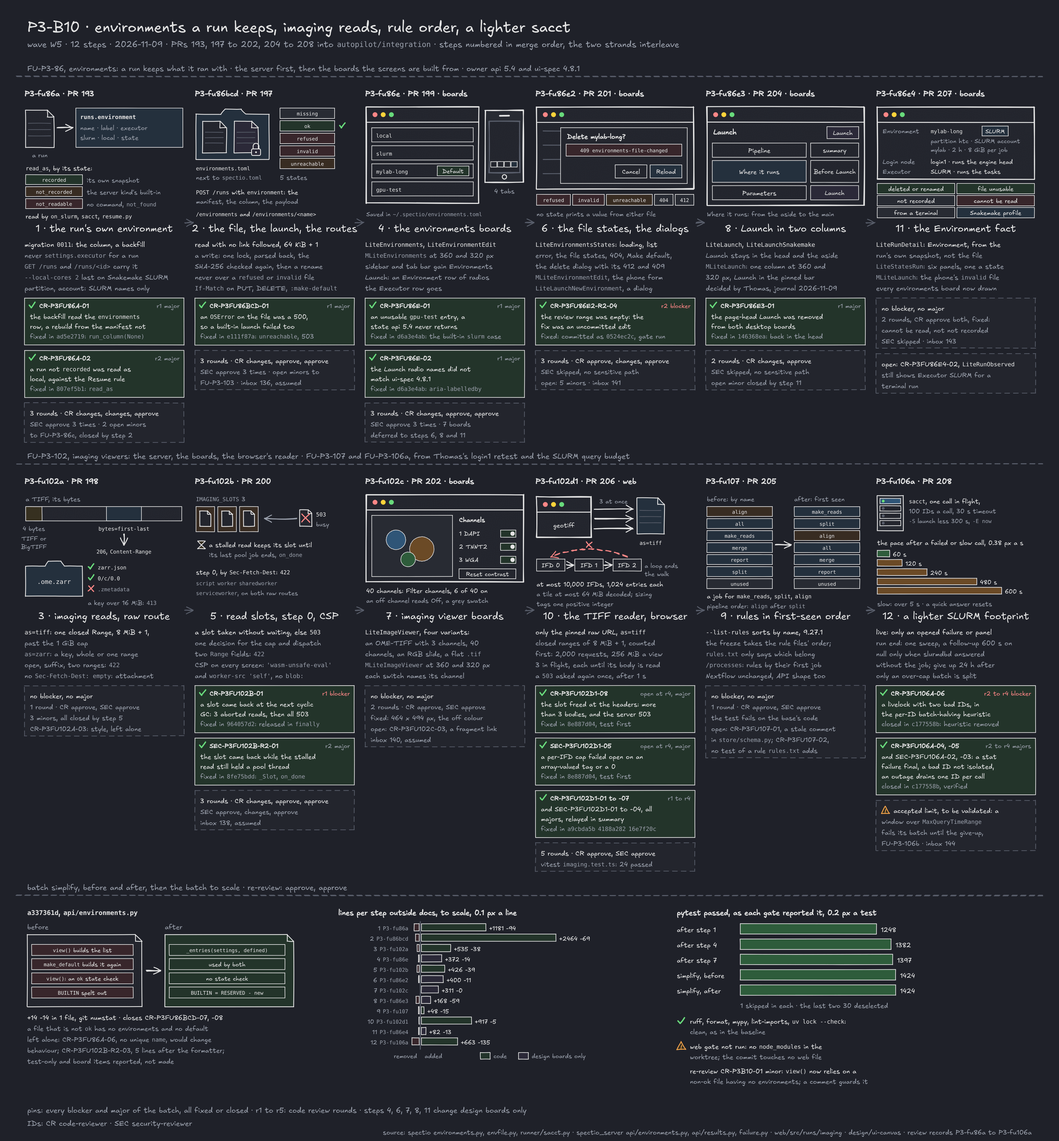
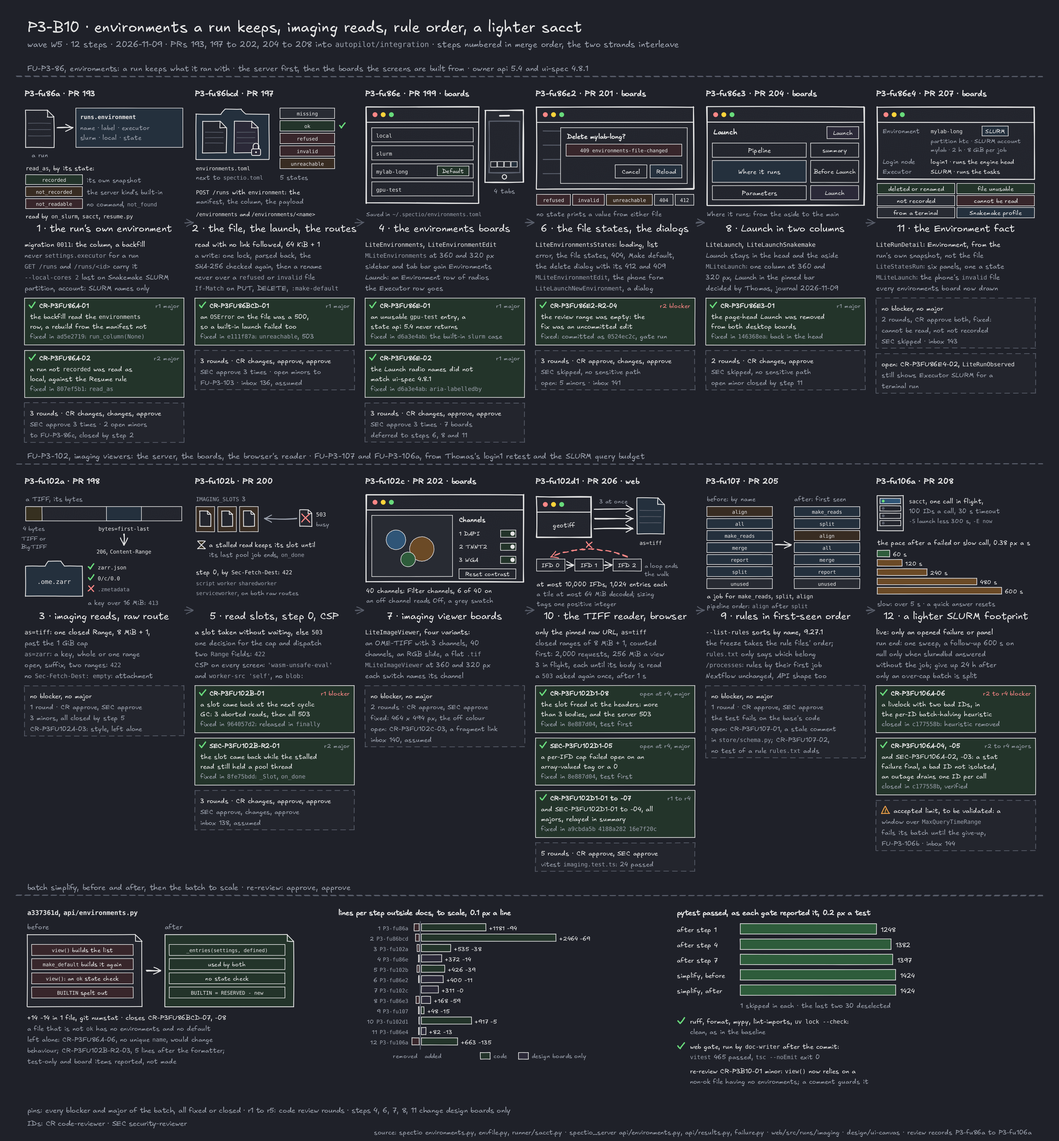
docs(P3-B10): redraw the batch figure with the web gate result, link the guide from api 5.4
The bottom panel said "web gate not run" (the simplifier's report). doc-writer ran
vitest (465 passed) and tsc (exit 0) afterwards; the figure now says so (DW-P3B10-02).
api 5.4 links to docs/usage/environments.md.

Claude-Session: https://claude.ai/code/session_01MF8RxMKxdKAc4b3Ft8NyRk

diff --git a/tools/diagrams/p3_b10_environments_imaging.py b/tools/diagrams/p3_b10_environments_imaging.py
@@ -612,10 +612,10 @@ def build(theme: Theme) -> Sketch:
     s.text(x + 24, y0 + 209, "ruff, format, mypy, lint-imports, `uv lock --check`:", size=12,
            anchor="start")
     s.text(x + 24, y0 + 228, "clean, as in the baseline", size=12, anchor="start", colour=t.dim)
-    s.warning(x + 8, y0 + 250, size=8)
-    s.text(x + 24, y0 + 255, "web gate not run: no `node_modules` in the", size=12,
+    s.tick(x + 8, y0 + 250, size=6)
+    s.text(x + 24, y0 + 255, "web gate, run by `doc-writer` after the commit:", size=12,
            anchor="start")
-    s.text(x + 24, y0 + 274, "worktree; the commit touches no web file", size=12, anchor="start",
+    s.text(x + 24, y0 + 274, "`vitest` 465 passed, `tsc --noEmit` exit 0", size=12, anchor="start",
            colour=t.dim)
     s.text(x + 24, y0 + 300, "re-review CR-P3B10-01 minor: `view()` now relies on a", size=12,
            anchor="start")

diff --git a/docs/progress/W5/P3-M9.md b/docs/progress/W5/P3-M9.md
@@ -9,8 +9,8 @@ review: null
 
 !!! info "Running since 2026-11-07 · milestone M9 ([P1 plan, M9](../../plans/P1-walking-skeleton.md#m9-dag-temp-outputs-and-efficiency)), three tasks, all merged into `autopilot/integration` (PRs #151 to #153) · batch P3-B04 docs on `autopilot/P3-B04`, see [Batch P3-B04](#batch-p3-b04) · follow-up FU-P3-53 (PR #156) and FU-P3-44 of [M2](P3-M2.md#fu-p3-44-built) (PR #157) closed by batch P3-B05 on `autopilot/P3-B05`, see [Batch P3-B05](#batch-p3-b05) · FU-P3-66 (PR #163, native Slurm) and G7 of [M5](P3-M5.md#task-g7-happy-local-checked-on-both-engines) (PR #165) closed by batch P3-B06 on `autopilot/P3-B06`, see [Batch P3-B06](#batch-p3-b06) · FU-P3-79 to 83, Thomas's login1 feedback (PRs #175 to #179), closed by batch P3-B08 on `autopilot/P3-B08`, see [Batch P3-B08](#batch-p3-b08) · FU-P3-90 (PR #182) and the file explorer and preview, FU-P3-85 (PRs #183 to #186, #188 and #189), closed by batch P3-B09 on `autopilot/P3-B09`, see [Batch P3-B09](#batch-p3-b09) · FU-P3-86a to -86e4, FU-P3-102a to -102d1, FU-P3-107 and FU-P3-106a (PRs #193, #197 to #202 and #204 to #208), closed by batch P3-B10 on `autopilot/P3-B10`, see [Batch P3-B10](#batch-p3-b10) · the page stays `running`: the `slurm-mini` checks of the three tasks wait for P1 Task 22 and the batch docs PR is not merged · status, `review-code` result and proof per task: see the [Tasks](#tasks) table and [Evidence](#evidence)"
 
-![P3-B10, twelve steps of wave W5 in two rows and a bottom band. Top row, FU-P3-86 environments: 1, P3-fu86a (PR 193), the run keeps its own environment in runs.environment (name, label, executor, slurm, local, state), read by state as recorded, not_recorded or not_readable, major CR-P3FU86A-01 and CR-P3FU86A-02 fixed; 2, P3-fu86bcd (PR 197), environments.toml read without following a link, five states (missing, ok, refused, invalid, unreachable), POST /runs with environment, the routes with If-Match, major CR-P3FU86BCD-01 (an OSError was a 500) fixed; 4, P3-fu86e (PR 199), the environments boards, majors CR-P3FU86E-01 and -02 fixed; 6, P3-fu86e2 (PR 201), the file states and dialogs, blocker CR-P3FU86E2-R2-04 (the fix was not committed) fixed; 8, P3-fu86e3 (PR 204), Launch in two columns, major CR-P3FU86E3-01 fixed; 11, P3-fu86e4 (PR 207), the Environment fact on Run detail and six states, open minor CR-P3FU86E4-02. Bottom row: 3, P3-fu102a (PR 198), imaging reads as=tiff by one closed Range of 8 MiB + 1 and as=zarr by key, .zmetadata refused, 413 over 16 MiB; 5, P3-fu102b (PR 200), three imaging read slots, step 0 refusing script and worker destinations, the CSP with wasm-unsafe-eval, blocker CR-P3FU102B-01 and major SEC-P3FU102B-R2-01 fixed; 7, P3-fu102c (PR 202), the imaging viewer boards; 10, P3-fu102d1 (PR 206), the TIFF reader in the browser with caps (3 in flight, 10,000 IFDs), majors CR-P3FU102D1-08 and SEC-P3FU102D1-05 fixed test first, 5 rounds; 9, P3-fu107 (PR 205), Snakemake rules in first-seen order, align after split, open CR-P3FU107-01 and -02; 12, P3-fu106a (PR 208), a lighter sacct footprint with back-off from 60 to 600 s, blocker CR-P3FU106A-06 and majors fixed by removing the batch-halving heuristic, accepted limit FU-P3-106b. Bottom band: the simplifier's commit a337361d, one _entries helper and BUILTIN = RESERVED - new, +14 -14 in api/environments.py; lines per step to scale; pytest passed 1248, 1382, 1397, 1424 before and 1424 after; the re-review approves twice with CR-P3B10-01 open. The figure's line 'web gate not run' dates from the simplifier's report: doc-writer ran it afterwards, 465 vitest tests passed and tsc was clean.](../../assets/diagrams/p3-b10-environments-imaging_light.png#only-light)
-![P3-B10, twelve steps of wave W5 in two rows and a bottom band. Top row, FU-P3-86 environments: 1, P3-fu86a (PR 193), the run keeps its own environment in runs.environment (name, label, executor, slurm, local, state), read by state as recorded, not_recorded or not_readable, major CR-P3FU86A-01 and CR-P3FU86A-02 fixed; 2, P3-fu86bcd (PR 197), environments.toml read without following a link, five states (missing, ok, refused, invalid, unreachable), POST /runs with environment, the routes with If-Match, major CR-P3FU86BCD-01 (an OSError was a 500) fixed; 4, P3-fu86e (PR 199), the environments boards, majors CR-P3FU86E-01 and -02 fixed; 6, P3-fu86e2 (PR 201), the file states and dialogs, blocker CR-P3FU86E2-R2-04 (the fix was not committed) fixed; 8, P3-fu86e3 (PR 204), Launch in two columns, major CR-P3FU86E3-01 fixed; 11, P3-fu86e4 (PR 207), the Environment fact on Run detail and six states, open minor CR-P3FU86E4-02. Bottom row: 3, P3-fu102a (PR 198), imaging reads as=tiff by one closed Range of 8 MiB + 1 and as=zarr by key, .zmetadata refused, 413 over 16 MiB; 5, P3-fu102b (PR 200), three imaging read slots, step 0 refusing script and worker destinations, the CSP with wasm-unsafe-eval, blocker CR-P3FU102B-01 and major SEC-P3FU102B-R2-01 fixed; 7, P3-fu102c (PR 202), the imaging viewer boards; 10, P3-fu102d1 (PR 206), the TIFF reader in the browser with caps (3 in flight, 10,000 IFDs), majors CR-P3FU102D1-08 and SEC-P3FU102D1-05 fixed test first, 5 rounds; 9, P3-fu107 (PR 205), Snakemake rules in first-seen order, align after split, open CR-P3FU107-01 and -02; 12, P3-fu106a (PR 208), a lighter sacct footprint with back-off from 60 to 600 s, blocker CR-P3FU106A-06 and majors fixed by removing the batch-halving heuristic, accepted limit FU-P3-106b. Bottom band: the simplifier's commit a337361d, one _entries helper and BUILTIN = RESERVED - new, +14 -14 in api/environments.py; lines per step to scale; pytest passed 1248, 1382, 1397, 1424 before and 1424 after; the re-review approves twice with CR-P3B10-01 open. The figure's line 'web gate not run' dates from the simplifier's report: doc-writer ran it afterwards, 465 vitest tests passed and tsc was clean.](../../assets/diagrams/p3-b10-environments-imaging_dark.png#only-dark)
+![P3-B10, twelve steps of wave W5 in two rows and a bottom band. Top row, FU-P3-86 environments: 1, P3-fu86a (PR 193), the run keeps its own environment in runs.environment (name, label, executor, slurm, local, state), read by state as recorded, not_recorded or not_readable, major CR-P3FU86A-01 and CR-P3FU86A-02 fixed; 2, P3-fu86bcd (PR 197), environments.toml read without following a link, five states (missing, ok, refused, invalid, unreachable), POST /runs with environment, the routes with If-Match, major CR-P3FU86BCD-01 (an OSError was a 500) fixed; 4, P3-fu86e (PR 199), the environments boards, majors CR-P3FU86E-01 and -02 fixed; 6, P3-fu86e2 (PR 201), the file states and dialogs, blocker CR-P3FU86E2-R2-04 (the fix was not committed) fixed; 8, P3-fu86e3 (PR 204), Launch in two columns, major CR-P3FU86E3-01 fixed; 11, P3-fu86e4 (PR 207), the Environment fact on Run detail and six states, open minor CR-P3FU86E4-02. Bottom row: 3, P3-fu102a (PR 198), imaging reads as=tiff by one closed Range of 8 MiB + 1 and as=zarr by key, .zmetadata refused, 413 over 16 MiB; 5, P3-fu102b (PR 200), three imaging read slots, step 0 refusing script and worker destinations, the CSP with wasm-unsafe-eval, blocker CR-P3FU102B-01 and major SEC-P3FU102B-R2-01 fixed; 7, P3-fu102c (PR 202), the imaging viewer boards; 10, P3-fu102d1 (PR 206), the TIFF reader in the browser with caps (3 in flight, 10,000 IFDs), majors CR-P3FU102D1-08 and SEC-P3FU102D1-05 fixed test first, 5 rounds; 9, P3-fu107 (PR 205), Snakemake rules in first-seen order, align after split, open CR-P3FU107-01 and -02; 12, P3-fu106a (PR 208), a lighter sacct footprint with back-off from 60 to 600 s, blocker CR-P3FU106A-06 and majors fixed by removing the batch-halving heuristic, accepted limit FU-P3-106b. Bottom band: the simplifier's commit a337361d, one _entries helper and BUILTIN = RESERVED - new, +14 -14 in api/environments.py; lines per step to scale; pytest passed 1248, 1382, 1397, 1424 before and 1424 after; the re-review approves twice with CR-P3B10-01 open. Web gate, run by doc-writer after the commit: vitest 465 passed, tsc exit 0.](../../assets/diagrams/p3-b10-environments-imaging_light.png#only-light)
+![P3-B10, twelve steps of wave W5 in two rows and a bottom band. Top row, FU-P3-86 environments: 1, P3-fu86a (PR 193), the run keeps its own environment in runs.environment (name, label, executor, slurm, local, state), read by state as recorded, not_recorded or not_readable, major CR-P3FU86A-01 and CR-P3FU86A-02 fixed; 2, P3-fu86bcd (PR 197), environments.toml read without following a link, five states (missing, ok, refused, invalid, unreachable), POST /runs with environment, the routes with If-Match, major CR-P3FU86BCD-01 (an OSError was a 500) fixed; 4, P3-fu86e (PR 199), the environments boards, majors CR-P3FU86E-01 and -02 fixed; 6, P3-fu86e2 (PR 201), the file states and dialogs, blocker CR-P3FU86E2-R2-04 (the fix was not committed) fixed; 8, P3-fu86e3 (PR 204), Launch in two columns, major CR-P3FU86E3-01 fixed; 11, P3-fu86e4 (PR 207), the Environment fact on Run detail and six states, open minor CR-P3FU86E4-02. Bottom row: 3, P3-fu102a (PR 198), imaging reads as=tiff by one closed Range of 8 MiB + 1 and as=zarr by key, .zmetadata refused, 413 over 16 MiB; 5, P3-fu102b (PR 200), three imaging read slots, step 0 refusing script and worker destinations, the CSP with wasm-unsafe-eval, blocker CR-P3FU102B-01 and major SEC-P3FU102B-R2-01 fixed; 7, P3-fu102c (PR 202), the imaging viewer boards; 10, P3-fu102d1 (PR 206), the TIFF reader in the browser with caps (3 in flight, 10,000 IFDs), majors CR-P3FU102D1-08 and SEC-P3FU102D1-05 fixed test first, 5 rounds; 9, P3-fu107 (PR 205), Snakemake rules in first-seen order, align after split, open CR-P3FU107-01 and -02; 12, P3-fu106a (PR 208), a lighter sacct footprint with back-off from 60 to 600 s, blocker CR-P3FU106A-06 and majors fixed by removing the batch-halving heuristic, accepted limit FU-P3-106b. Bottom band: the simplifier's commit a337361d, one _entries helper and BUILTIN = RESERVED - new, +14 -14 in api/environments.py; lines per step to scale; pytest passed 1248, 1382, 1397, 1424 before and 1424 after; the re-review approves twice with CR-P3B10-01 open. Web gate, run by doc-writer after the commit: vitest 465 passed, tsc exit 0.](../../assets/diagrams/p3-b10-environments-imaging_dark.png#only-dark)
 
 ![P3-B09, browse and preview a run's files, and a rule in no rule graph. Six columns in build order, one per step of FU-P3-85, then the pipeline order fix, the batch simplifier and the tests. 1, P3-fu85-spec (PR 183): the design first, in ui-spec 4.4.1, api 5.3 and dev-env 15.3 requirement 14, with boards before screens; a self-review R0 that was not independent, then the independent R1 (security 0 blockers, 2 majors, 9 minors; UX 0, 5, 15), all applied; no code-reviewer and no tests. 2, P3-fu85a (PR 184): a stat route and a text route on the results directory, one reader for the Job files and the results, a Range that never cuts a UTF-8 character, Cross-Origin-Resource-Policy same-origin on the file routes; approve twice, open minors CR-P3FU85A-01 and SEC-P3FU85A-01 to -03. 3, P3-fu85b (PR 185): image mode of the raw route, inline only for Sec-Fetch-Dest image, with the signature, 20 MiB and 50 megapixel caps, one opening that records the size, inode and first chunk, and an abort when the file is replaced; approve twice, open CR-P3FU85B-01 and SEC-P3FU85B-01 to -03. 4, P3-fu85c (PR 186): the file preview page, one viewer by kind, whole up to 64 KiB, else Start or End with Load more, caps of 1 MiB, 20,000 lines, 500 rows and 50 columns, a Playwright test of a hostile SVG; four rounds, the majors CR-P3FU85C-01, -02, -03, R3-06 and R3-07, SEC-P3FU85C-01 and others fixed; Firefox and WebKit not run. 5, P3-fu85d (PR 188): the results explorer with sort buttons carrying aria-sort, a filter, Kind badges and a Download button per file, the view kept in the URL, and a way back to the task sheet; two rounds, approve twice; the Playwright smoke on the explorer not done. 6, P3-fu85e (PR 189): the work directory of a Nextflow attempt, the same routes on a second root, dot names refused, links followed only into a task of the same run, Browse work directory on the task sheet; two rounds, approve twice; a real work directory on a cluster not seen. Bottom band: P3-fu90 (PR 182), the rules in no rule graph now come after the rules in a graph, align between split and merge after a second graph; the batch simplifier, two commits, seven files, minus 61 and plus 54, one copy each of the entries body, the stat body, the content security policy string, join and the 503 words; the re-review approves twice with CR-P3B09-01, -02 and SEC-P3B09-01 open; tests to scale, pytest 1189 passed before and after, vitest 432 passed after.](../../assets/diagrams/p3-b09-file-explorer_light.png#only-light)
 ![P3-B09, browse and preview a run's files, and a rule in no rule graph. Six columns in build order, one per step of FU-P3-85, then the pipeline order fix, the batch simplifier and the tests. 1, P3-fu85-spec (PR 183): the design first, in ui-spec 4.4.1, api 5.3 and dev-env 15.3 requirement 14, with boards before screens; a self-review R0 that was not independent, then the independent R1 (security 0 blockers, 2 majors, 9 minors; UX 0, 5, 15), all applied; no code-reviewer and no tests. 2, P3-fu85a (PR 184): a stat route and a text route on the results directory, one reader for the Job files and the results, a Range that never cuts a UTF-8 character, Cross-Origin-Resource-Policy same-origin on the file routes; approve twice, open minors CR-P3FU85A-01 and SEC-P3FU85A-01 to -03. 3, P3-fu85b (PR 185): image mode of the raw route, inline only for Sec-Fetch-Dest image, with the signature, 20 MiB and 50 megapixel caps, one opening that records the size, inode and first chunk, and an abort when the file is replaced; approve twice, open CR-P3FU85B-01 and SEC-P3FU85B-01 to -03. 4, P3-fu85c (PR 186): the file preview page, one viewer by kind, whole up to 64 KiB, else Start or End with Load more, caps of 1 MiB, 20,000 lines, 500 rows and 50 columns, a Playwright test of a hostile SVG; four rounds, the majors CR-P3FU85C-01, -02, -03, R3-06 and R3-07, SEC-P3FU85C-01 and others fixed; Firefox and WebKit not run. 5, P3-fu85d (PR 188): the results explorer with sort buttons carrying aria-sort, a filter, Kind badges and a Download button per file, the view kept in the URL, and a way back to the task sheet; two rounds, approve twice; the Playwright smoke on the explorer not done. 6, P3-fu85e (PR 189): the work directory of a Nextflow attempt, the same routes on a second root, dot names refused, links followed only into a task of the same run, Browse work directory on the task sheet; two rounds, approve twice; a real work directory on a cluster not seen. Bottom band: P3-fu90 (PR 182), the rules in no rule graph now come after the rules in a graph, align between split and merge after a second graph; the batch simplifier, two commits, seven files, minus 61 and plus 54, one copy each of the entries body, the stat body, the content security policy string, join and the 503 words; the re-review approves twice with CR-P3B09-01, -02 and SEC-P3B09-01 open; tests to scale, pytest 1189 passed before and after, vitest 432 passed after.](../../assets/diagrams/p3-b09-file-explorer_dark.png#only-dark)
@@ -798,7 +798,7 @@ Branch `autopilot/P3-B10`, on `a337361d`, the simplifier's commit on top of `d21
 
 - **Simplifier:** one commit, `a337361d`, 1 file, +14 −14 (the worker reported −11/+13): `api/environments.py` builds the built-ins and the file's environments in one `_entries` helper, used by `view()` and `make_default()`, and `BUILTIN` is `RESERVED - {"new"}`. It closes CR-P3FU86BCD-07 and -08 ([record](../../reviews/code/P3-B10.md#simplification)). Six simplify findings were looked at and left alone, with the reasons in the record.
 - **Re-review:** over the 28 lines of the diff, so both reviewers read it ([autopilot §11](../../playbooks/autopilot.md#11-batches-of-p3-tasks-thomas-2026-11-04)): `code-reviewer` approve (1 minor, CR-P3B10-01: `view()` now relies on a file that is not `ok` having no environments and no default, which holds today), `security-reviewer` approve (no finding). Nothing was changed after it; the minor is open and optional.
-- **Figure:** `p3-b10-environments-imaging`, light and dark, drawn by `diagram-artist`, at the top of this page. Its bottom panel says the web gate was not run; that is the simplifier's report, and `doc-writer` ran it afterwards ([evidence](#batch-p3-b10-evidence), [DW-P3B10-02](../../reviews/code/P3-B10.md#findings)).
+- **Figure:** `p3-b10-environments-imaging`, light and dark, drawn by `diagram-artist`, at the top of this page. Its bottom panel carries the web gate as `doc-writer` ran it after the simplifier's report: `vitest` 465 passed, `tsc --noEmit` exit 0 ([evidence](#batch-p3-b10-evidence), [DW-P3B10-02](../../reviews/code/P3-B10.md#findings), fixed by redrawing).
 - **Guide:** a new page, [Environments](../../usage/environments.md), in the Usage nav, written from a real server (below). The imaging reads have no guide: no screen uses them yet and [api §5.3.1](../../specs/api-and-data-model.md#531-imaging-viewers-fu-p3-102) owns them.
 - **No screenshot and no cast:** the batch builds no screen. The boards are design files, not the product, so they are not shown as screenshots. The one CLI line the batch adds, `spectio doctor`'s `environments` line, is shown as text in the guide.
 - **Found by `doc-writer`, new:** `POST /runs:validate` does not exist in 0.0.1, although the step text and the api §5.4 table name it ([DW-P3B10-01](../../reviews/code/P3-B10.md#findings)).
@@ -1346,7 +1346,7 @@ GET ...?as=tiff  Range, no Sec-Fetch-Dest ->  200 content-disposition: attachmen
 
 **Batch P3-B10**
 
-- **`p3-b10-environments-imaging` sketch,** light and dark, at the top of this page. Drawn by `diagram-artist` with `python3 tools/diagrams/p3_b10_environments_imaging.py` (entry `p3-b10-environments-imaging` in `docs/assets/media.yaml`), from the code at `a337361d`. Two rows in merge order: the six environments steps (the run's column and its three states, the file and its five states, then the four boards) and the six others (the raw route's TIFF and Zarr reads, the three read slots, the viewer boards, the browser's reader, the rule order, the `sacct` back-off). Each blocker and major is pinned by its ID, fixed ones green, the open ones dashed. The bottom band has the simplifier before and after, the lines of each step to scale and the pytest counts. `doc-writer` looked at the light PNG: one line is out of date, "web gate not run" ([DW-P3B10-02](../../reviews/code/P3-B10.md#findings)). `doc-reviewer` has not read the page yet.
+- **`p3-b10-environments-imaging` sketch,** light and dark, at the top of this page. Drawn by `diagram-artist` with `python3 tools/diagrams/p3_b10_environments_imaging.py` (entry `p3-b10-environments-imaging` in `docs/assets/media.yaml`), from the code at `a337361d`. Two rows in merge order: the six environments steps (the run's column and its three states, the file and its five states, then the four boards) and the six others (the raw route's TIFF and Zarr reads, the three read slots, the viewer boards, the browser's reader, the rule order, the `sacct` back-off). Each blocker and major is pinned by its ID, fixed ones green, the open ones dashed. The bottom band has the simplifier before and after, the lines of each step to scale and the pytest counts. The first drawing said "web gate not run", the simplifier's report; it was redrawn with the web gate result (465 `vitest` tests passed, `tsc` exit 0) and `doc-writer` looked at the new light PNG ([DW-P3B10-02](../../reviews/code/P3-B10.md#findings)). `doc-reviewer` has not read the page yet.
 - **Guide:** [Environments](../../usage/environments.md), new, in the Usage nav; owned by [api §5.4](../../specs/api-and-data-model.md#54-environments-001) and [ui-spec §4.8.1](../../specs/ui-spec.md#481-environments-in-001). It has no figure of its own: the batch figure is the one.
 - **Not shown, and why:**
     - no screenshot: no screen is built (FU-P3-86f, -86g, FU-P3-102d to -102g). The boards are design files, and a render of a board would read as the product;
@@ -1513,7 +1513,6 @@ The batch `code-simplifier` changed one file by +14 and −14 ([record](../../re
 |---|---|---|
 | CR-P3B10-01 (minor, optional): `view()` relies on a non-`ok` `EnvFile` having no environments and no default; add an assertion in `envfile.py` or a test, or restore the `state == "ok"` check. Follow-up FU-P3-108 | server | [P3-B10](../../reviews/code/P3-B10.md#re-review) |
 | **DW-P3B10-01:** `POST /runs:validate` is not in 0.0.1; the api §5.4 table row and the step text name it. One clause in the spec | spec | [P3-B10](../../reviews/code/P3-B10.md#findings) |
-| **DW-P3B10-02:** the figure's "web gate not run" is out of date | figures | [P3-B10](../../reviews/code/P3-B10.md#findings) |
 | FU-P3-103: the minors of FU-P3-86b to -86d (the launch template's "no longer exists" for an unreadable file, a test that cites Snakemake 9.27.1, the `invalid` detail echoing a name, the runner not checking the snapshot against its server kind, a write waiting for its lock in a pool worker, no test of a directory `fstat` failure, a socket at `environments.toml` read as `unreachable`), plus the simplify items CR-P3FU86BCD-09 and round 2 -04 | server | [P3-fu86bcd](../../reviews/code/P3-fu86bcd.md#findings) |
 | Left by the simplifier, none blocking: CR-P3FU86A-06, CR-P3FU86A-R3-02 (a test's readability), CR-P3FU102A-03, CR-P3FU102B-02 and R2-03, R3-05 (the abort test, `fetched`, the stub written three times), CR-P3FU86E-07 (the hidden `<h2>` of a board), CR-P3FU102C-04 (a repeated `aria-label`) | server, web, boards | the step records |
 | CR-P3FU107-01 (the comment on `run_processes` in `store/schema.py` still describes the old order) and CR-P3FU107-02 (no test of the rule `rules.txt` lists and the files do not hold) | server | [P3-fu107](../../reviews/code/P3-fu107.md#findings) |

diff --git a/docs/specs/api-and-data-model.md b/docs/specs/api-and-data-model.md
@@ -394,6 +394,8 @@ The server stores the merged manifest of each launch as `run_inputs.kind = manif
 
 ### 5.4 Environments (0.0.1)
 
+*User guide:* [Environments](../usage/environments.md), what each state looks like on a real server.
+
 *Note 2026-11-09, design of FU-P3-86, assumed — pending Thomas ([inbox #133](../reviews/inbox.md#133-assumed-environments-local-slurm-define-a-new-one-fu-p3-86); Thomas, login1 feedback, 2026-11-08: "environments (local, SLURM, define a new one)", in 0.0.1 by the [decision log](../decisions/log.md#2026-11-08-thomass-login1-feedback-five-features-join-001-engine-polling-unchanged-thomas); design entry: [decision log](../decisions/log.md#2026-11-09-environments-in-001-fu-p3-86-assumed); revised the same day after the independent pre-review R1, [record](../reviews/code/P3-fu86-spec.md#round-r1-independent)):* the store, the routes and the launch field behind the Environments screens of [ui-spec §4.8.1](ui-spec.md#481-environments-in-001). Nothing here is built. The 1.0 model (environments owned by groups, grants, runners, storage: §5 table, §6, §7) is unchanged and comes later; the security rules are [dev-env §15.3](dev-environment-and-testing.md#153-001-on-a-cluster-architecture-and-safety-without-accounts) req. 18. Whoever holds the session can already run code as the user through `POST /runs` (a pipeline is code), so the rules below are defence in depth against values that steer the engines, and protection of the file in the shared home.
 
 **What exists before this note.** The executor is one value per server, `executor = "slurm" | "local"` in `spectio.toml`, set by `spectio init` (`--local` for local mode) and read by `spectio.config.Settings`. The runner builds every launch from it (`slurm=settings.slurm if settings.executor == "slurm"`, `spectio/runner/loop.py`), with the one `[slurm]` table (`partition`, `account`); the head script turns it into Nextflow's `.spectio/spectio.config` (`process.executor`, `process.queue`, `process.clusterOptions = '--account=…'`) or Snakemake's `--executor slurm` and `--default-resources` (`spectio/runner/headscript.py`). Per-run decisions read the server's kind too: the failure summary takes `on_slurm` from the `environments` row joined through `runs.environment_id` (`failure.py:823-827`, then `sacct` at `:887-892` and the reason at `:894`), `Accounting.from_settings` (`failure.py:316`) and the copied command (`resume.py:126`) from `settings.executor`, and `ensure_tenancy` rewrites the oldest `environments` row at each start (`bootstrap.py:61-65`). `GET /version` gives the server's `executor`, which the screens show as the run's executor too. `POST /runs` has no environment field, and the form ends "The executor, the login node and the run directory are fixed for this server: there is nothing to choose in 0.0.1" (ui-spec §4.6, UI parity B note).

diff --git a/docs/reviews/code/P3-B10.md b/docs/reviews/code/P3-B10.md
@@ -107,4 +107,4 @@ The open findings of the twelve steps are listed on the [Progress page](../../pr
 | Id | Severity | Finding | Status |
 |---|---|---|---|
 | DW-P3B10-01 | minor | **`POST /runs:validate` does not exist in 0.0.1.** The Progress sections of P3-fu86bcd and its review record say that `environment` is a field of `POST /runs` and `/runs:validate`, as the table of [api §5.4](../../specs/api-and-data-model.md#54-environments-001) does. The 0.0.1 server has no `:validate` route ([api §5, note 2026-10-30](../../specs/api-and-data-model.md): "no `POST /runs:validate`"); on a real server `POST /api/v1/runs:validate` answers `404 not-found`, with or without `environment`. The field is read by `POST /runs`, where an unknown name, a `slurm` name on a local server and a file environment while the file is `invalid` each give `422` on `environment` (shown in the [evidence](../../progress/W5/P3-M9.md#batch-p3-b10-evidence)). `doc-writer` corrected the Progress section; the P3-fu86bcd record keeps the worker's wording, and the api §5.4 table row says "`POST /runs`, `POST /runs:validate`" as the 1.0 shape. Suggested: one clause in the api §5.4 table row, "`:validate` when it exists" | **open**, spec wording for Thomas's spec step |
-| DW-P3B10-02 | minor | The figure's bottom panel says "web gate not run", which was true of the simplifier's report and is not true of the branch: `doc-writer` ran vitest (35 files, 465 passed) and `tsc` (exit 0) after the figure was drawn. The Progress page says so next to the figure. A regenerated figure can drop the line | **open** for `diagram-artist` |
+| DW-P3B10-02 | minor | The figure's bottom panel says "web gate not run", which was true of the simplifier's report and is not true of the branch: `doc-writer` ran vitest (35 files, 465 passed) and `tsc` (exit 0) after the figure was drawn. The Progress page says so next to the figure. The figure was regenerated with the result (465 passed, `tsc` exit 0) | **fixed** by redrawing |
